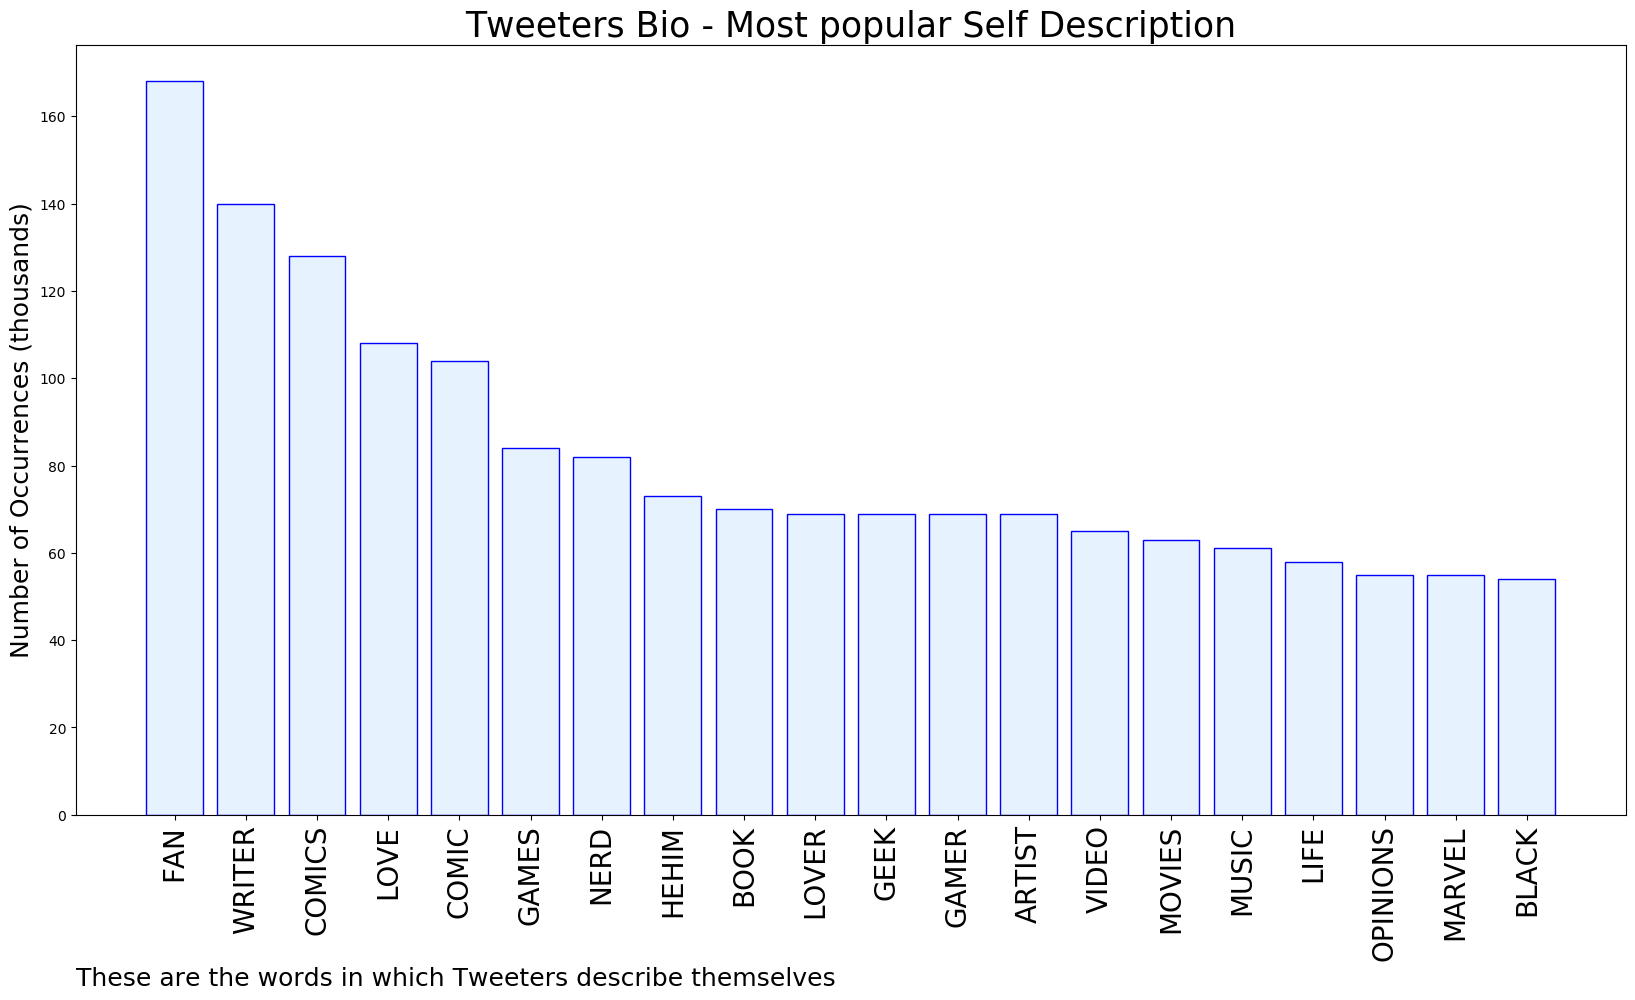
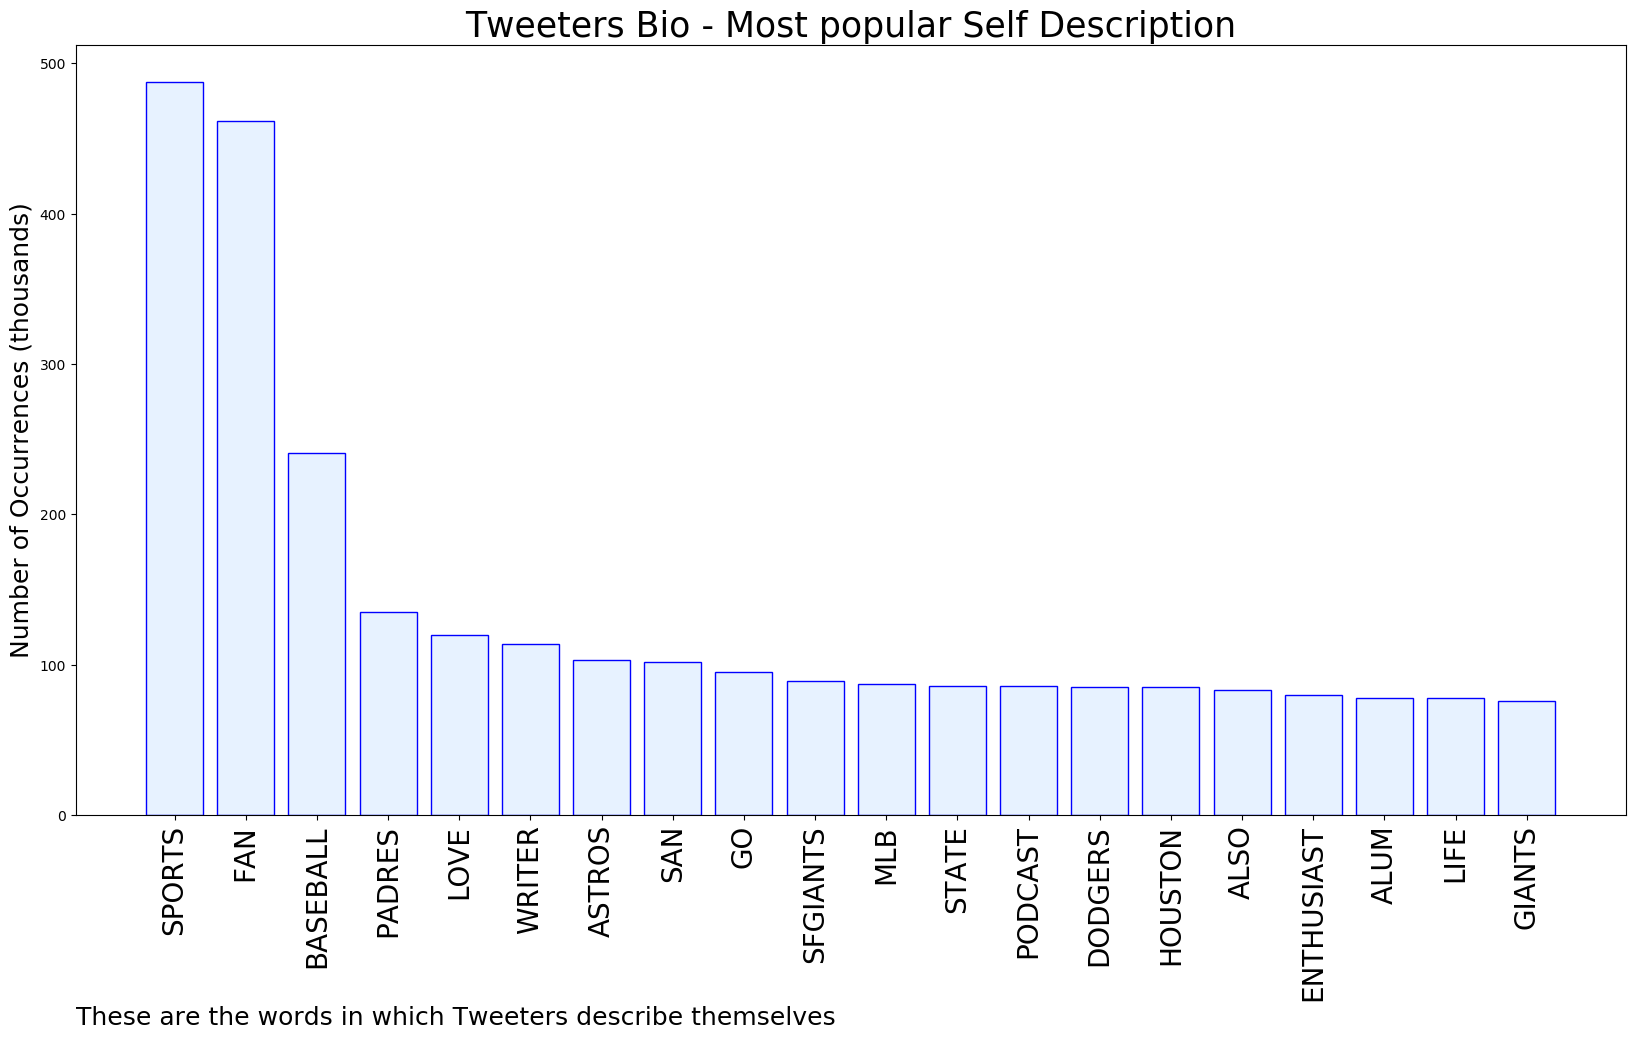
Updating with latest report

diff --git a/README.md b/README.md
@@ -1,5 +1,5 @@
 # MURCHIE85 TWITTER PROCESSING 
-&#x1F34E; **TOPIC = "#My5XMen"**
+&#x1F34E; **TOPIC = "Bumgarner"**
 
 ## AUTOMATED RESEARCH SUMMARY
 
@@ -15,24 +15,24 @@
 
 |                **Sample-Tweets**        |
 | :-------------: |
-| UnuscioneNate GreyGambitKorvus Rook’shirGatewayUnuscione provides spacesuits &amp; leadership for the team as Gat… https://t.co/gXrIpELWdE |
-| #My5XMen Nightcrawer, Kitty Pryde, Rogue, Eye Boy, and Nature Girl! |
-| @GailSimone MorphBeastNightcrawlerSpykeMagnetoXavier#My5XMen |
+| RT @SlangsOnSports: Madison Bumgarner is the 1st pitcher in Diamondbacks history to allow 4 HR through the 1st 2 innings of a game. |
+| Big savings on this one:San Francisco Giants 2016 Topps Factory Sealed Special Edition 17 Card Team Set with Madis… https://t.co/9z6qndTtii |
+| Bumgarner gave up 7 earned runs today 🤗.... to the Astros https://t.co/fq6gO3Cg7v |
 
-The most popular user is: **XMenQueen**
-<div class="alert alert-block alert-danger"> RT @GailSimone: Okay, I have a SECOND question of the day, THIS IS UNPRECEDENTED.   ;)
+The most popular user is: **bumgarner_beth**
+<div class="alert alert-block alert-danger"> RT @TheHyyyype: me passing someone: u slow bitch
 
-There’s a lot of mutants. You get to pick FIVE muta…</div>
+me being passed: ok speed racer</div>
 
 ## RELATED METRICS<br>
 | Metric | Value |
 | ------------- | ------------- |
-| #1 Most tweeted to  | **GailSimone** |
-| #2 Most tweeted to  | **realarcobaleno** |
-| #3 Most tweeted to  | **HeatherAntos** |
-| NewProfiles (less than 10 days) | 0.75%  |
-| Tweeters with < 10 followers  | 5.9%|
-| Tweeters with > 1000000 followers  | 0.12%  |
+| #1 Most tweeted to  | **PhotogSanchez** |
+| #2 Most tweeted to  | **BNightengale** |
+| #3 Most tweeted to  | **Chandler_Rome** |
+| NewProfiles (less than 10 days) | 0.61%  |
+| Tweeters with < 10 followers  | 2.63%|
+| Tweeters with > 1000000 followers  | 0.11%  |
 
 
 
@@ -41,11 +41,11 @@ There’s a lot of mutants. You get to pick FIVE muta…</div>
 
 | Popularity Rank  | Term |
 | ------------- | ------------- |
-| first  | **STORM**  |
-| second  | **MY5XMEN**  |
-| third  | **WOLVERINE** |
-| fourth  | **NIGHTCRAWLER**  |
-| fifth  | **ROGUE**  |
+| first  | **BUMGARNER**  |
+| second  | **MADISON**  |
+| third  | **GAMES** |
+| fourth  | **GONNA**  |
+| fifth  | **SUSPENDED**  |
 
 
 ## Twitter Bio Analysis![image](BIO.png)
@@ -56,13 +56,13 @@ VIEWS WERE : **SUBJECTIVE**  (33.33%) & **NEGATIVELY-SUBJECTIVE** (13.33%) **OBJ
 ### TWEET SAMPLE 
 | Random value picked from array |
 | ------------- |
-|@GailSimone WolvieWandaColossusJean GreyBeast #My5XMen |
+|RT @PhotogSanchez: So is Bumgarner gonna be suspended for eight games now or nah? |
 
 ### MOST RETWEETED 
 
-| The most retweeted user is: **XMenQueen**  |
+| The most retweeted user is: **bumgarner_beth**  |
 | ------------- |
-| RT @GailSimone: Okay, I have a SECOND question of the day, THIS IS UNPRECEDENTED.   ;)There’s a lot of mutants. You get to pick FIVE muta… |
+| RT @TheHyyyype: me passing someone: u slow bitchme being passed: ok speed racer |
 
 ### CONCLUSION & EXTERNAL ANALYSIS
 
